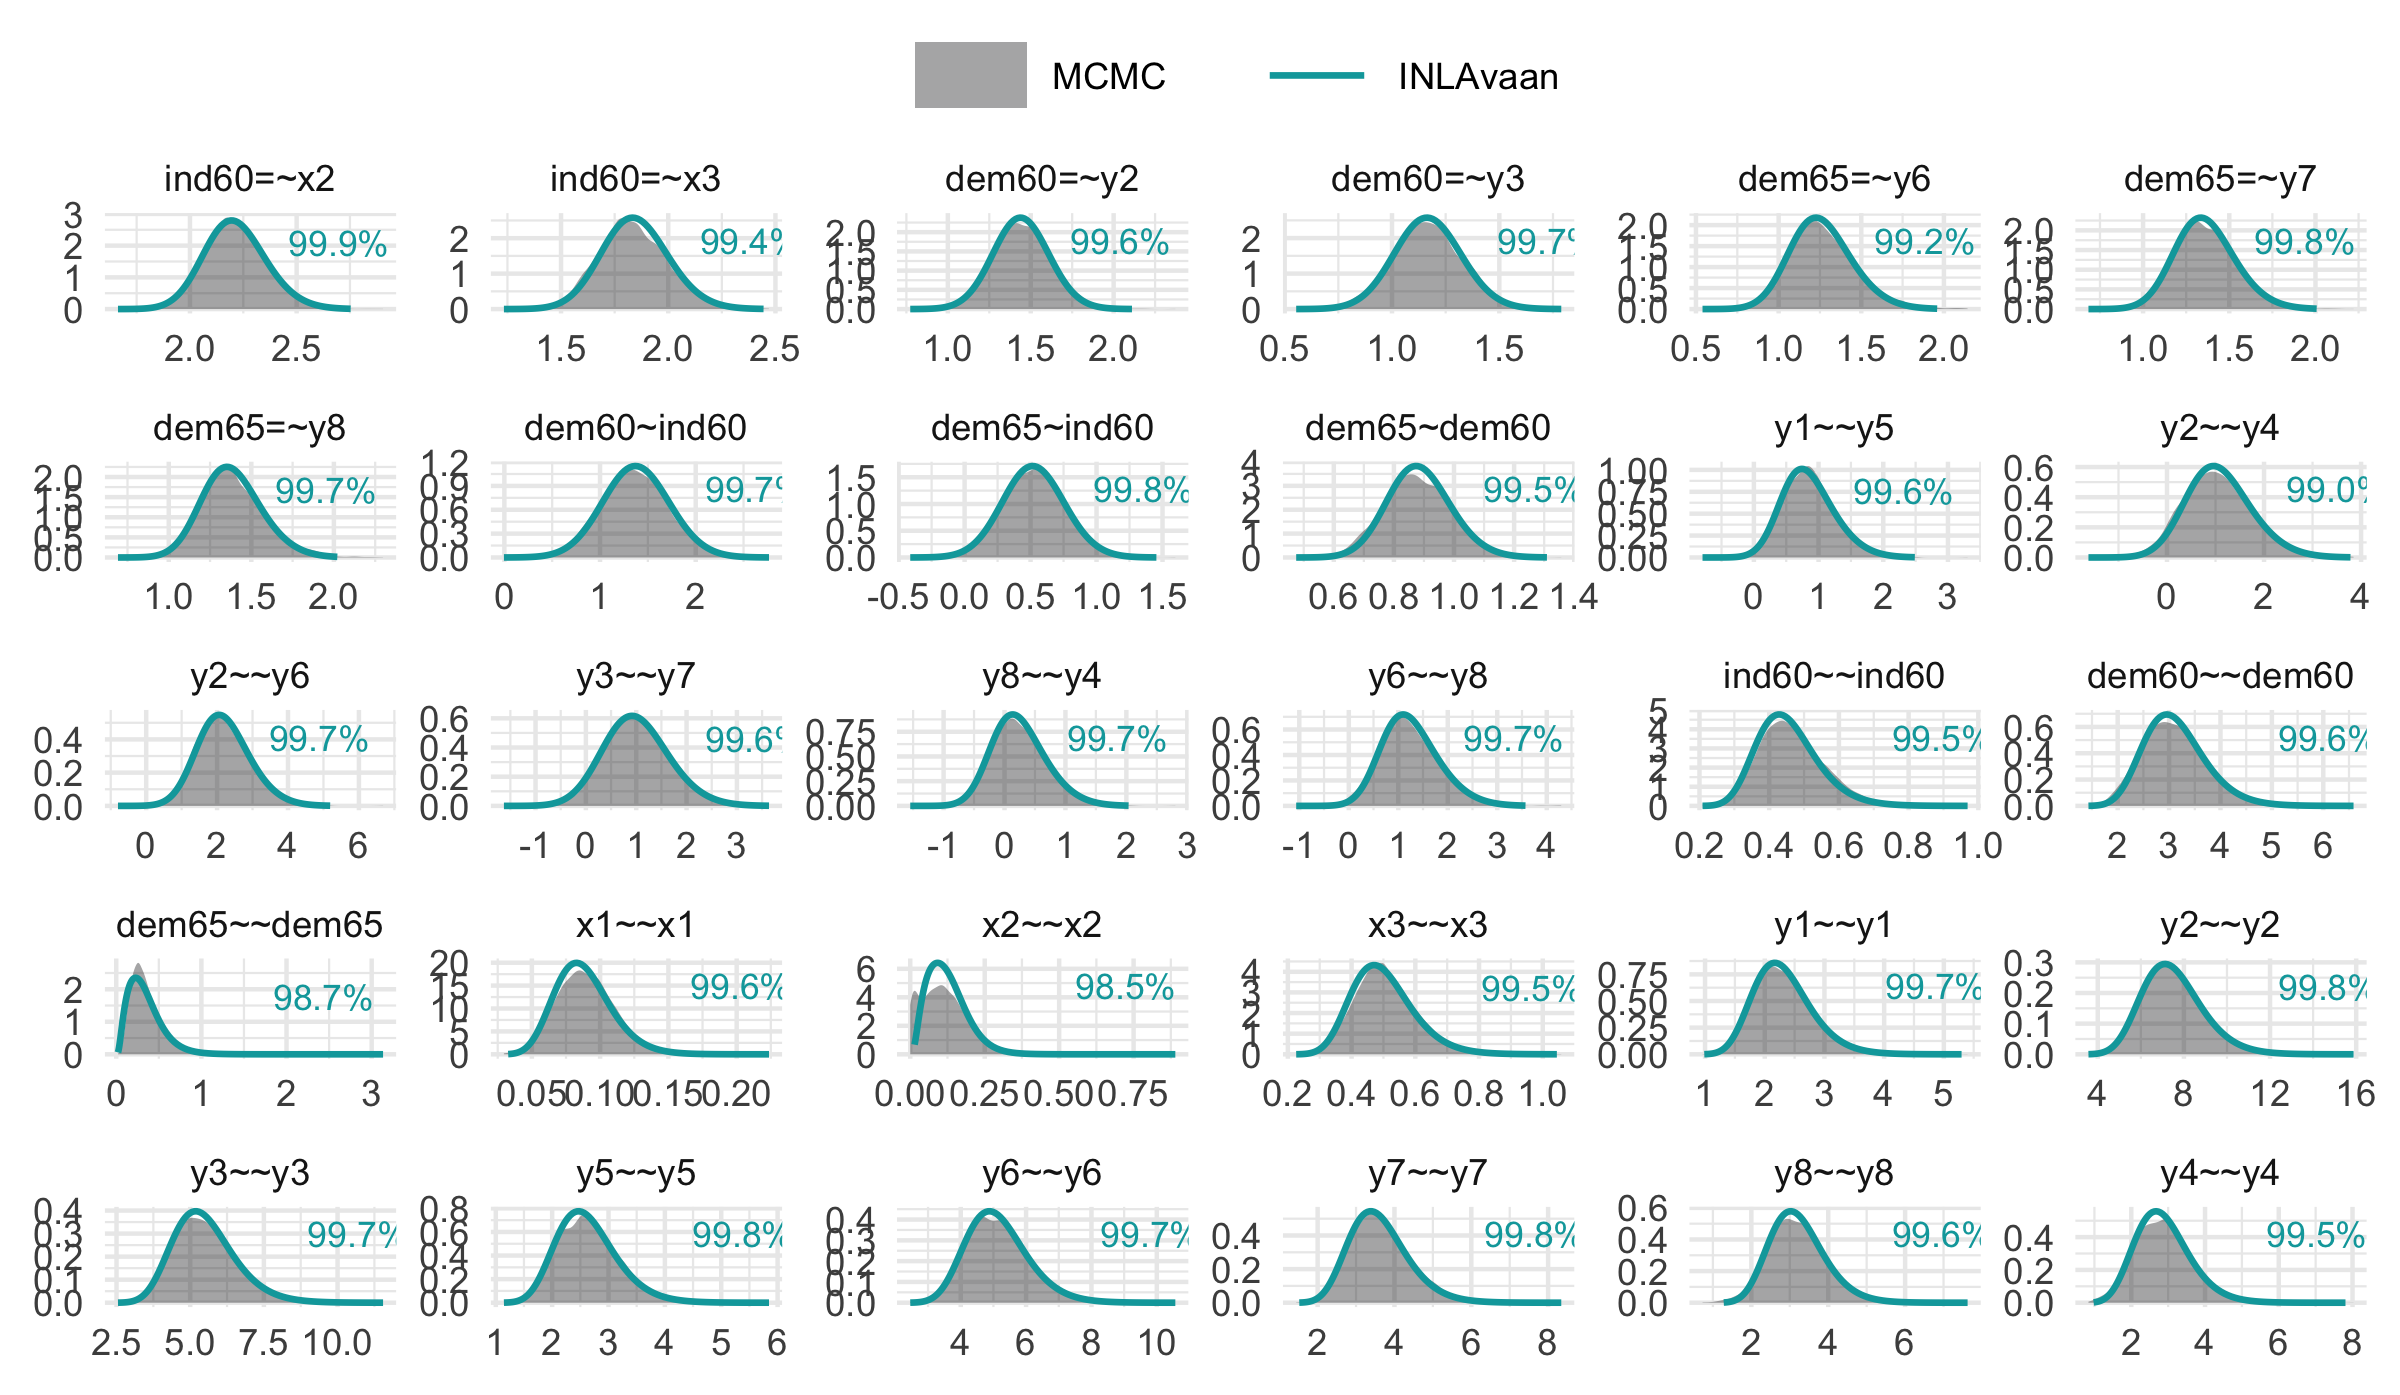
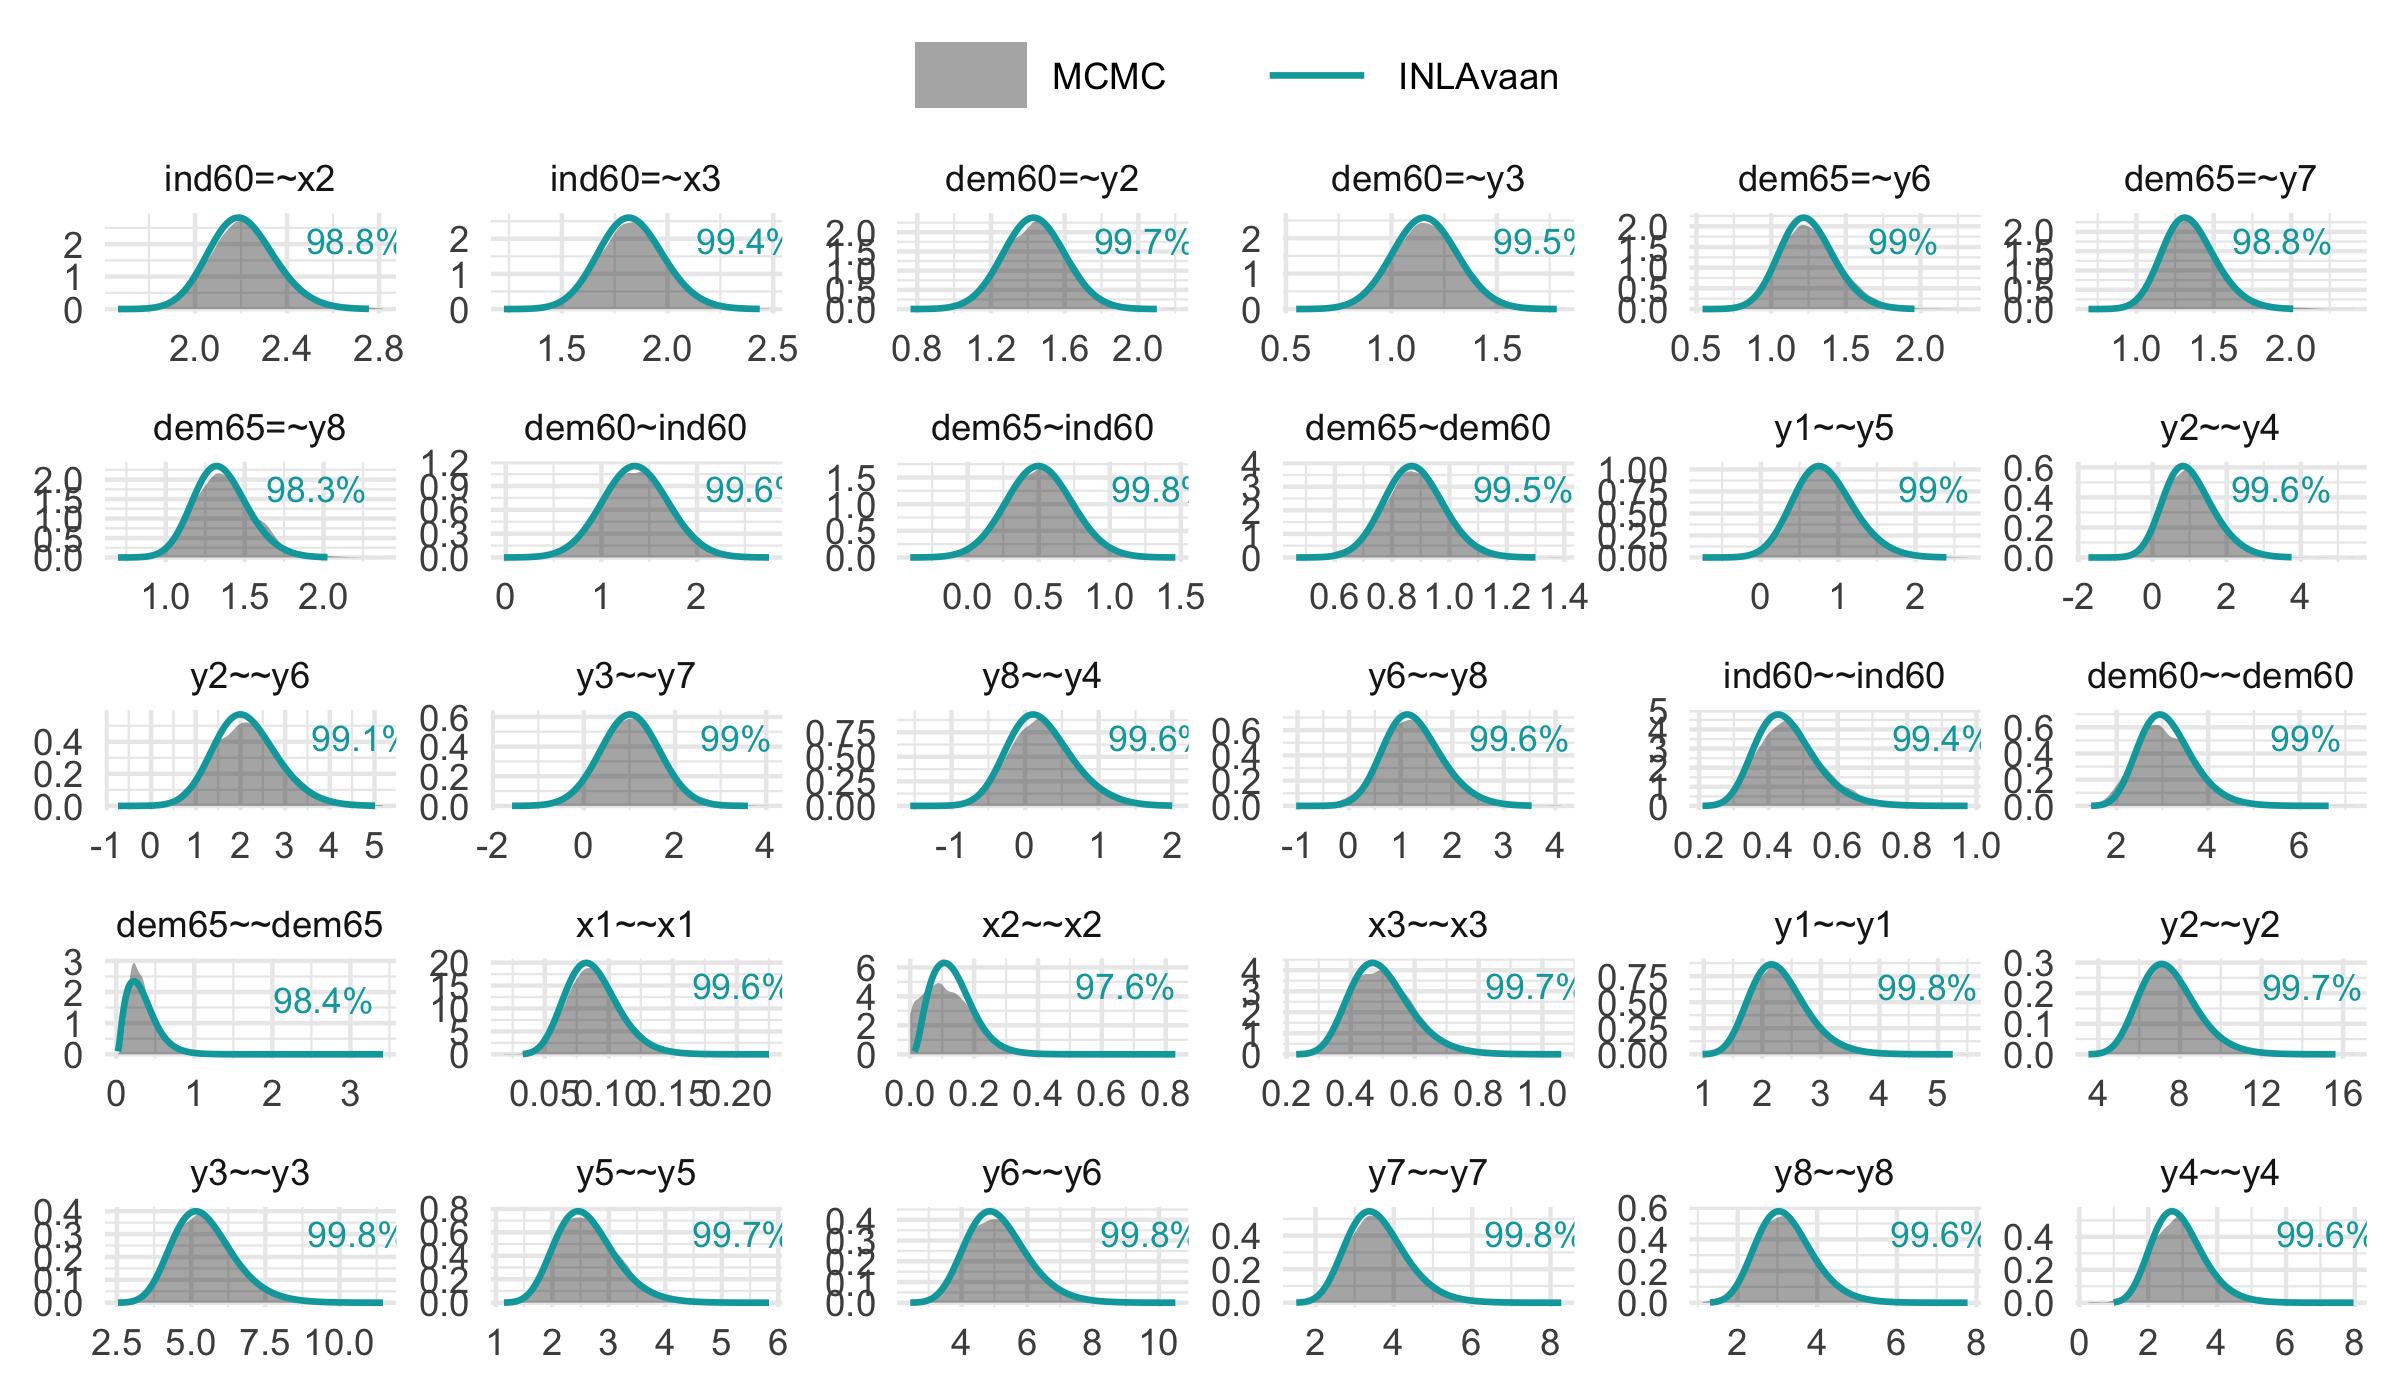
Canonical Cholesky & super_shortcut margin fix

diff --git a/README.md b/README.md
@@ -71,28 +71,29 @@ utils::data("PoliticalDemocracy", package = "lavaan")
 
 fit <- asem(model, PoliticalDemocracy)
 #> ℹ Finding posterior mode.
-#> ✔ Finding posterior mode. [36ms]
+#> ✔ Finding posterior mode. [37ms]
 #> 
 #> ℹ Computing the Hessian.
-#> ✔ Computing the Hessian. [33ms]
+#> ✔ Computing the Hessian. [35ms]
 #> 
 #> ℹ Performing VB correction.
-#> ✔ VB correction; mean |δ| = 0.036σ. [67ms]
+#> ✔ VB correction; mean |δ| = 0.035σ. [68ms]
 #> 
 #> ⠙ Fitting 0/30 skew-normal marginals.
-#> ⠹ Fitting 14/30 skew-normal marginals.
-#> ✔ Fitting 30/30 skew-normal marginals. [350ms]
+#> ⠹ Fitting 1/30 skew-normal marginals.
+#> ⠸ Fitting 17/30 skew-normal marginals.
+#> ✔ Fitting 30/30 skew-normal marginals. [375ms]
 #> 
 #> ℹ Adjusting copula correlations (NORTA).
-#> ✔ Adjusting copula correlations (NORTA). [101ms]
+#> ✔ Adjusting copula correlations (NORTA). [114ms]
 #> 
 #> ⠙ Posterior sampling and summarising.
 #> ⠹ Posterior sampling and summarising.
-#> ✔ Posterior sampling and summarising. [156ms]
+#> ✔ Posterior sampling and summarising. [155ms]
 #> 
 
 summary(fit)
-#> INLAvaan 0.2.3.9012 ended normally after 80 iterations
+#> INLAvaan 0.2.3.9013 ended normally after 80 iterations
 #> 
 #>   Estimator                                      BAYES
 #>   Optimization method                           NLMINB
@@ -102,13 +103,13 @@ summary(fit)
 #> 
 #> Model Test (User Model):
 #> 
-#>    Marginal log-likelihood                   -1651.442 
-#>    PPP (Chi-square)                              0.504 
+#>    Marginal log-likelihood                   -1651.234 
+#>    PPP (Chi-square)                              0.482 
 #> 
 #> Information Criteria:
 #> 
-#>    Deviance (DIC)                             3157.534 
-#>    Effective parameters (pD)                    29.426 
+#>    Deviance (DIC)                             3156.893 
+#>    Effective parameters (pD)                    29.040 
 #> 
 #> Parameter Estimates:
 #> 
@@ -119,58 +120,58 @@ summary(fit)
 #>                    Estimate       SD     2.5%    97.5%     NMAD    Prior       
 #>   ind60 =~                                                                     
 #>     x1                1.000                                                    
-#>     x2                2.215    0.145    1.947    2.518    0.005    normal(0,10)
-#>     x3                1.831    0.155    1.539    2.149    0.006    normal(0,10)
+#>     x2                2.207    0.144    1.941    2.506    0.005    normal(0,10)
+#>     x3                1.831    0.155    1.539    2.148    0.006    normal(0,10)
 #>   dem60 =~                                                                     
 #>     y1                1.000                                                    
-#>     y2                1.434    0.168    1.109    1.768    0.001    normal(0,10)
-#>     y3                1.158    0.155    0.859    1.467    0.001    normal(0,10)
+#>     y2                1.436    0.168    1.111    1.770    0.001    normal(0,10)
+#>     y3                1.161    0.155    0.862    1.470    0.001    normal(0,10)
 #>   dem65 =~                                                                     
 #>     y5                1.000                                                    
-#>     y6                1.265    0.188    0.923    1.661    0.012    normal(0,10)
-#>     y7                1.364    0.177    1.046    1.741    0.011    normal(0,10)
-#>     y8                1.374    0.179    1.052    1.755    0.014    normal(0,10)
+#>     y6                1.246    0.184    0.910    1.635    0.011    normal(0,10)
+#>     y7                1.347    0.173    1.038    1.719    0.014    normal(0,10)
+#>     y8                1.353    0.174    1.038    1.723    0.015    normal(0,10)
 #>   dem60 =~                                                                     
 #>     y4                1.500                                                    
 #> 
 #> Regressions:
 #>                    Estimate       SD     2.5%    97.5%     NMAD    Prior       
 #>   dem60 ~                                                                      
-#>     ind60             1.352    0.347    0.680    2.042    0.001    normal(0,10)
+#>     ind60             1.358    0.347    0.686    2.048    0.001    normal(0,10)
 #>   dem65 ~                                                                      
-#>     ind60             0.500    0.233    0.051    0.966    0.001    normal(0,10)
-#>     dem60             0.878    0.104    0.682    1.091    0.010    normal(0,10)
+#>     ind60             0.505    0.233    0.056    0.971    0.001    normal(0,10)
+#>     dem60             0.877    0.104    0.682    1.090    0.010    normal(0,10)
 #> 
 #> Covariances:
 #>                    Estimate       SD     2.5%    97.5%     NMAD    Prior       
 #>  .y1 ~~                                                                        
-#>    .y5                0.329    0.370    0.170    1.620    0.009       beta(1,1)
+#>    .y5                0.326    0.394    0.111    1.658    0.005       beta(1,1)
 #>  .y2 ~~                                                                        
-#>    .y4                0.219    0.725   -0.335    2.509    0.004       beta(1,1)
-#>    .y6                0.348    0.713    0.842    3.640    0.011       beta(1,1)
+#>    .y4                0.213    0.685   -0.167    2.513    0.005       beta(1,1)
+#>    .y6                0.342    0.719    0.849    3.673    0.011       beta(1,1)
 #>  .y3 ~~                                                                        
-#>    .y7                0.222    0.646   -0.148    2.389    0.009       beta(1,1)
+#>    .y7                0.219    0.647   -0.257    2.279    0.005       beta(1,1)
 #>  .y8 ~~                                                                        
-#>    .y4                0.066    0.447   -0.630    1.122    0.004       beta(1,1)
+#>    .y4                0.065    0.445   -0.558    1.187    0.004       beta(1,1)
 #>  .y6 ~~                                                                        
-#>    .y8                0.305    0.604    0.235    2.601    0.005       beta(1,1)
+#>    .y8                0.302    0.570    0.251    2.488    0.005       beta(1,1)
 #> 
 #> Variances:
 #>                    Estimate       SD     2.5%    97.5%     NMAD    Prior       
-#>     ind60             0.452    0.088    0.306    0.649    0.002      gamma(1,1)
-#>    .dem60             3.093    0.596    2.091    4.419    0.001      gamma(2,1)
-#>    .dem65             0.326    0.191    0.065    0.787    0.033     gamma(1,.5)
-#>    .x1                0.086    0.021    0.051    0.131    0.005 gamma(1,.5)[sd]
-#>    .x2                0.129    0.065    0.032    0.277    0.039 gamma(1,.5)[sd]
-#>    .x3                0.495    0.097    0.334    0.712    0.003 gamma(1,.5)[sd]
-#>    .y1                2.286    0.485    1.481    3.372    0.004 gamma(1,.5)[sd]
-#>    .y2                7.453    1.404    5.079   10.562    0.003 gamma(1,.5)[sd]
-#>    .y3                5.443    1.051    3.697    7.800    0.002 gamma(1,.5)[sd]
-#>    .y5                2.597    0.535    1.704    3.792    0.004 gamma(1,.5)[sd]
-#>    .y6                5.099    0.942    3.509    7.189    0.003 gamma(1,.5)[sd]
-#>    .y7                3.576    0.765    2.295    5.281    0.006 gamma(1,.5)[sd]
-#>    .y8                3.206    0.717    1.986    4.790    0.006 gamma(1,.5)[sd]
-#>    .y4                2.878    0.748    1.619    4.535    0.009 gamma(1,.5)[sd]
+#>     ind60             0.454    0.088    0.308    0.653    0.003      gamma(1,1)
+#>    .dem60             3.107    0.599    2.100    4.439    0.001      gamma(2,1)
+#>    .dem65             0.335    0.193    0.070    0.801    0.034     gamma(1,.5)
+#>    .x1                0.088    0.021    0.052    0.133    0.005 gamma(1,.5)[sd]
+#>    .x2                0.135    0.066    0.036    0.286    0.044 gamma(1,.5)[sd]
+#>    .x3                0.497    0.097    0.336    0.715    0.003 gamma(1,.5)[sd]
+#>    .y1                2.300    0.487    1.490    3.391    0.005 gamma(1,.5)[sd]
+#>    .y2                7.482    1.410    5.099   10.603    0.003 gamma(1,.5)[sd]
+#>    .y3                5.470    1.057    3.714    7.841    0.001 gamma(1,.5)[sd]
+#>    .y5                2.613    0.539    1.715    3.816    0.005 gamma(1,.5)[sd]
+#>    .y6                5.117    0.945    3.521    7.212    0.002 gamma(1,.5)[sd]
+#>    .y7                3.594    0.768    2.307    5.306    0.005 gamma(1,.5)[sd]
+#>    .y8                3.222    0.720    1.998    4.812    0.006 gamma(1,.5)[sd]
+#>    .y4                2.892    0.750    1.630    4.554    0.008 gamma(1,.5)[sd]
 ```
 
 ## Validation against MCMC
@@ -232,7 +233,7 @@ install.packages(
 To cite package `{INLAvaan}` in publications use:
 
 > Jamil, H (2026). *INLAvaan: Approximate Bayesian Latent Variable
-> Analysis*. R package version 0.2.3.9012. DOI:
+> Analysis*. R package version 0.2.3.9013. DOI:
 > [10.32614/CRAN.package.INLAvaan](https://doi.org/10.32614/CRAN.package.INLAvaan)
 
 A BibTeX entry for LaTeX users is:
@@ -242,7 +243,7 @@ A BibTeX entry for LaTeX users is:
     title = {INLAvaan: Approximate Bayesian Latent Variable Analysis},
     author = {Haziq Jamil},
     year = {2026},
-    note = {R package version 0.2.3.9012},
+    note = {R package version 0.2.3.9013},
     url = {https://inlavaan.haziqj.ml/},
     doi = {10.32614/CRAN.package.INLAvaan}
   }

diff --git a/NEWS.md b/NEWS.md
@@ -1,21 +1,20 @@
 # INLAvaan (development version)
 
-* Implement NORTA (NORmal To Anything) correlation adjustment for the SN copula, so that posterior samples have both correct skew-normal marginals and correct Pearson correlations. Copula sampling is now the default (`samp_copula = TRUE`).
-* Use Cholesky factorisation of the precision matrix for covariance and log-determinant calculations, replacing raw `solve()`.
-* Draw posterior samples once and store them; all downstream consumers (covariances, defined parameters, ppp, DIC, `predict()`, `standardisedsolution()`) now reuse a single draw.
-* Use pre-computed Owen-scrambled Sobol sequence; fall back to `{qrng}` when larger sequences are needed. QMC sample size now scales with model dimension.
-* Add `vb_correction` argument to `acfa()`, `asem()`, and `agrowth()`.
-* Add params and logscale options to visual_debug.
-* Small optimisations to volume correction of skew-normal marginalisation.
-* `{ggplot2}` is now optional; plots work with base R graphics.
-* Fixed bug in `qsnorm_fast()` that incorrectly handled sign symmetries.
+* NEW NORTA (NORmal To Anything) correlation adjustment for the SN copula, so that posterior samples have both correct skew-normal marginals and correct Pearson correlations. Copula sampling is now the default (`samp_copula = TRUE`).
 * NEW `sampling()` function to produce draws from the posterior (or prior) SEM generative model.
 * NEW Bayesian Fit Indices included in `fitmeasures()`; summary statistics available via `bfit_indices()`.
 * NEW parallelism feature for skew normal fit, automatically runs on total available cores when $m>120$.
 * NEW `predict()` now able to generate predictions for observed data.
 * For defined params, it's possible to fit a skew normal approximation to the posterior marginal based on the samples by calling `sn_fit_sample = TRUE`.
 * Improved `plot()` method.
-
+* FIX bug in efficient volume correction method (new `marginal_correction = "shortcut"` implementation).  
+* Small optimisations to volume correction of skew-normal marginalisation, making it faster to run.
+* FIX bug in `qsnorm_fast()` that incorrectly handled sign symmetries.
+* Use Cholesky factorisation of the precision matrix for covariance and log-determinant calculations, replacing raw `solve()`.
+* Use pre-computed Owen-scrambled Sobol sequence; fall back to `{qrng}` when larger sequences are needed. QMC sample size now scales with model dimension.
+* Add `vb_correction` argument to `acfa()`, `asem()`, and `agrowth()`.
+* Add params and logscale options to visual_debug.
+* `{ggplot2}` is now optional; plots work with base R graphics.
 
 # INLAvaan 0.2.3
 
